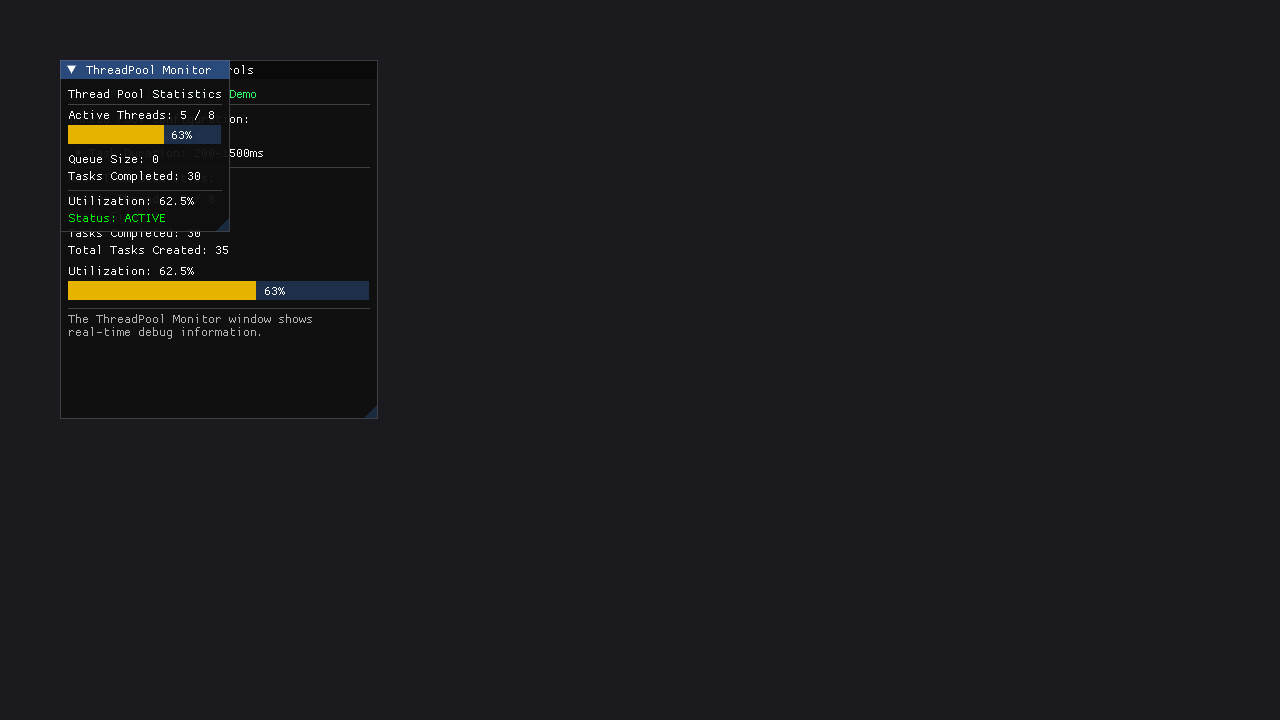
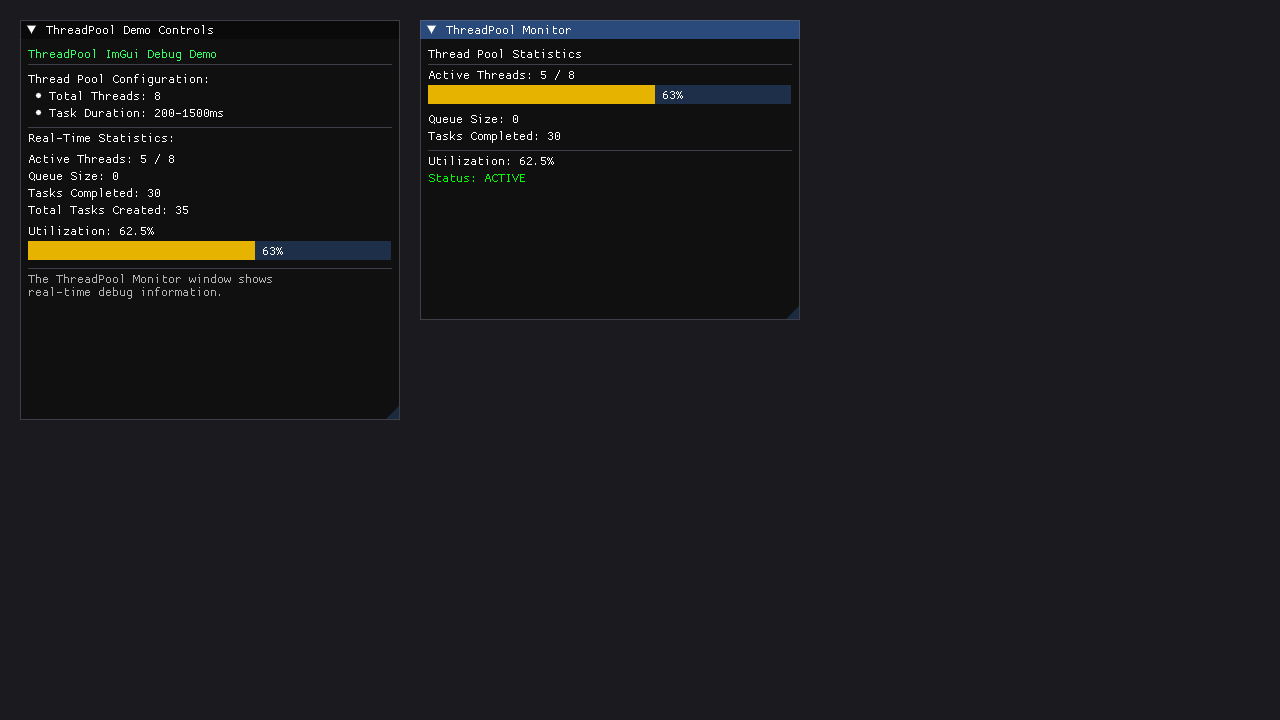
Fix window positioning to prevent overlap in demo
- Position control window on the left (20, 20) with size 380x400
- Position ThreadPool Monitor on the right (420, 20) with size 380x300
- Use ImGuiCond_Always for screenshot demo to ensure consistent layout
- Regenerate all screenshots and animated GIF with clean side-by-side layout
- No more overlapping windows in the demonstration
- Improved visual clarity and professionalism

diff --git a/demo/demo_screenshot.cpp b/demo/demo_screenshot.cpp
@@ -99,9 +99,9 @@ int main() {
         ImGui_ImplGlfw_NewFrame();
         ImGui::NewFrame();
 
-        // Control window
-        ImGui::SetNextWindowPos(ImVec2(20, 20), ImGuiCond_FirstUseEver);
-        ImGui::SetNextWindowSize(ImVec2(400, 350), ImGuiCond_FirstUseEver);
+        // Control window - positioned on the left
+        ImGui::SetNextWindowPos(ImVec2(20, 20), ImGuiCond_Always);
+        ImGui::SetNextWindowSize(ImVec2(380, 400), ImGuiCond_Always);
         ImGui::Begin("ThreadPool Demo Controls");
         
         ImGui::TextColored(ImVec4(0.2f, 1.0f, 0.4f, 1.0f), "ThreadPool ImGui Debug Demo");
@@ -135,9 +135,9 @@ int main() {
         
         ImGui::End();
 
-        // ThreadPool debug window
-        ImGui::SetNextWindowPos(ImVec2(450, 20), ImGuiCond_FirstUseEver);
-        ImGui::SetNextWindowSize(ImVec2(350, 250), ImGuiCond_FirstUseEver);
+        // ThreadPool debug window - positioned on the right, no overlap
+        ImGui::SetNextWindowPos(ImVec2(420, 20), ImGuiCond_Always);
+        ImGui::SetNextWindowSize(ImVec2(380, 300), ImGuiCond_Always);
         pool.renderDebugWindow("ThreadPool Monitor");
 
         ImGui::Render();

diff --git a/demo/demo_app.cpp b/demo/demo_app.cpp
@@ -96,7 +96,9 @@ int main() {
             }
         }
 
-        // Main control window
+        // Main control window - positioned on the left
+        ImGui::SetNextWindowPos(ImVec2(20, 20), ImGuiCond_FirstUseEver);
+        ImGui::SetNextWindowSize(ImVec2(400, 500), ImGuiCond_FirstUseEver);
         ImGui::Begin("ThreadPool Demo Controls");
         
         ImGui::Text("Welcome to the ThreadPool ImGui Debug Demo!");
@@ -142,10 +144,14 @@ int main() {
         
         ImGui::End();
 
-        // Render the ThreadPool debug window
+        // Render the ThreadPool debug window - positioned on the right
+        ImGui::SetNextWindowPos(ImVec2(440, 20), ImGuiCond_FirstUseEver);
+        ImGui::SetNextWindowSize(ImVec2(380, 300), ImGuiCond_FirstUseEver);
         pool.renderDebugWindow("ThreadPool Monitor");
 
-        // Show ImGui demo window for reference
+        // Show ImGui demo window for reference - positioned at bottom right
+        ImGui::SetNextWindowPos(ImVec2(440, 340), ImGuiCond_FirstUseEver);
+        ImGui::SetNextWindowSize(ImVec2(380, 360), ImGuiCond_FirstUseEver);
         ImGui::ShowDemoWindow();
 
         // Rendering
